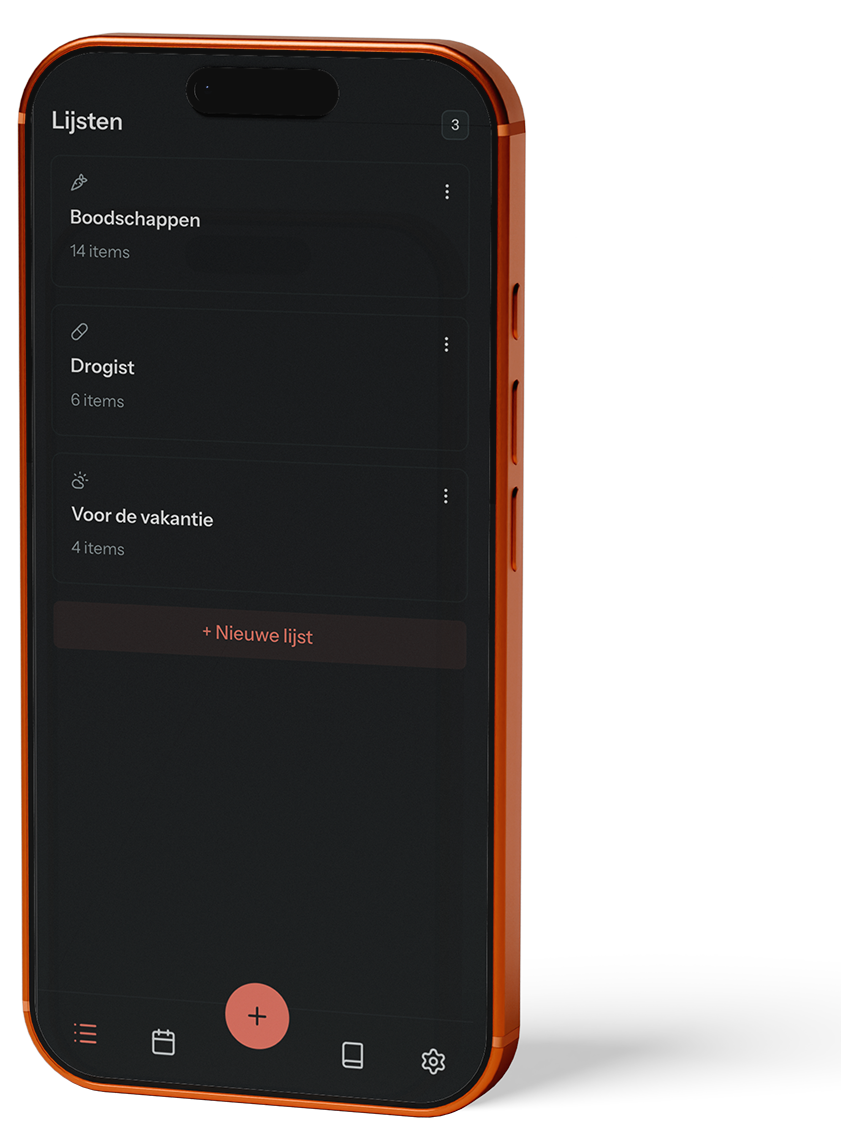
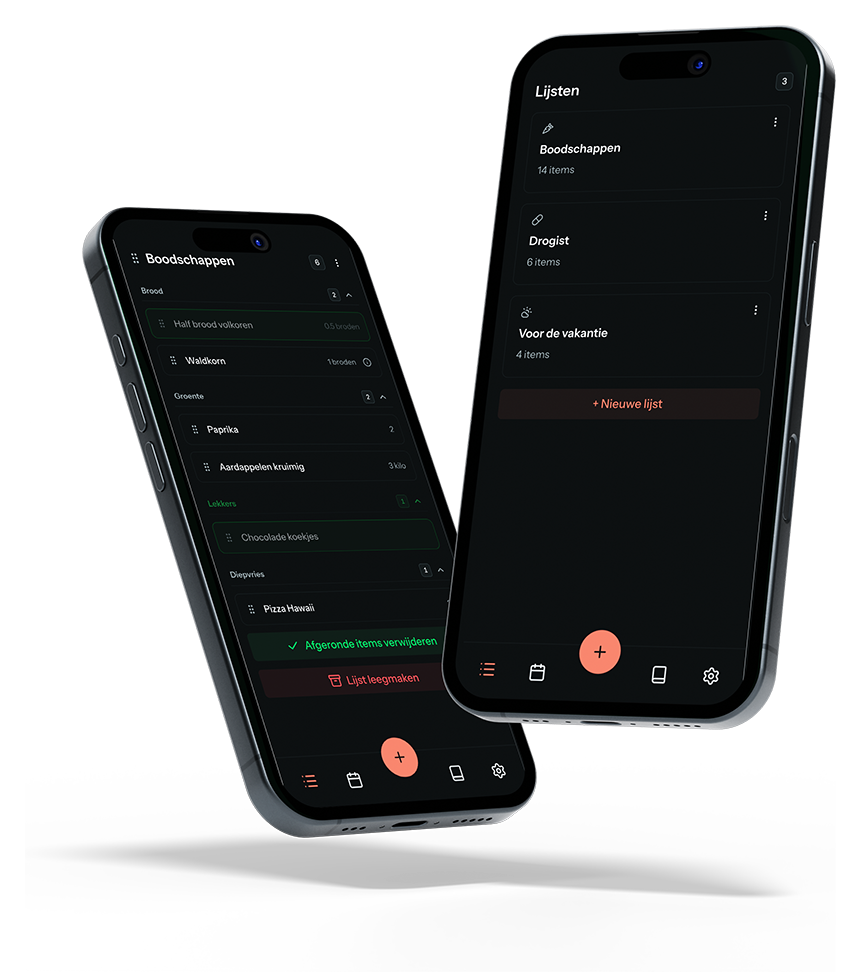
feat: improve mockups

diff --git a/app/pages/index.vue b/app/pages/index.vue
@@ -189,9 +189,9 @@ function staggerMotion(index: number = 0) {
 			<FluidBanner
 				color="primary"
 				class="mt-80 lg:mt-0"
-				container-class="flex flex-col-reverse md:flex-row gap-8 lg:gap-20"
+				container-class="flex flex-col-reverse lg:flex-row gap-8 lg:gap-20"
 			>
-				<div class="space-y-8 md:w-[45%] lg:w-1/3">
+				<div class="space-y-8 lg:w-1/3 lg:w-[45%]">
 					<Motion
 						as="p"
 						v-bind="enterMotion(0.5)"
@@ -226,9 +226,9 @@ function staggerMotion(index: number = 0) {
 					<UColorModeImage
 						light="/lightmode.png"
 						dark="/darkmode.png"
-						:width="600"
+						:width="800"
 						:height="800"
-						class="mx-auto max-w-[420px] lg:absolute lg:-right-1/6 lg:bottom-0"
+						class="mx-auto md:max-w-lg lg:absolute lg:right-0 lg:bottom-0 lg:w-[85%] lg:max-w-2xl"
 					/>
 				</div>
 			</FluidBanner>